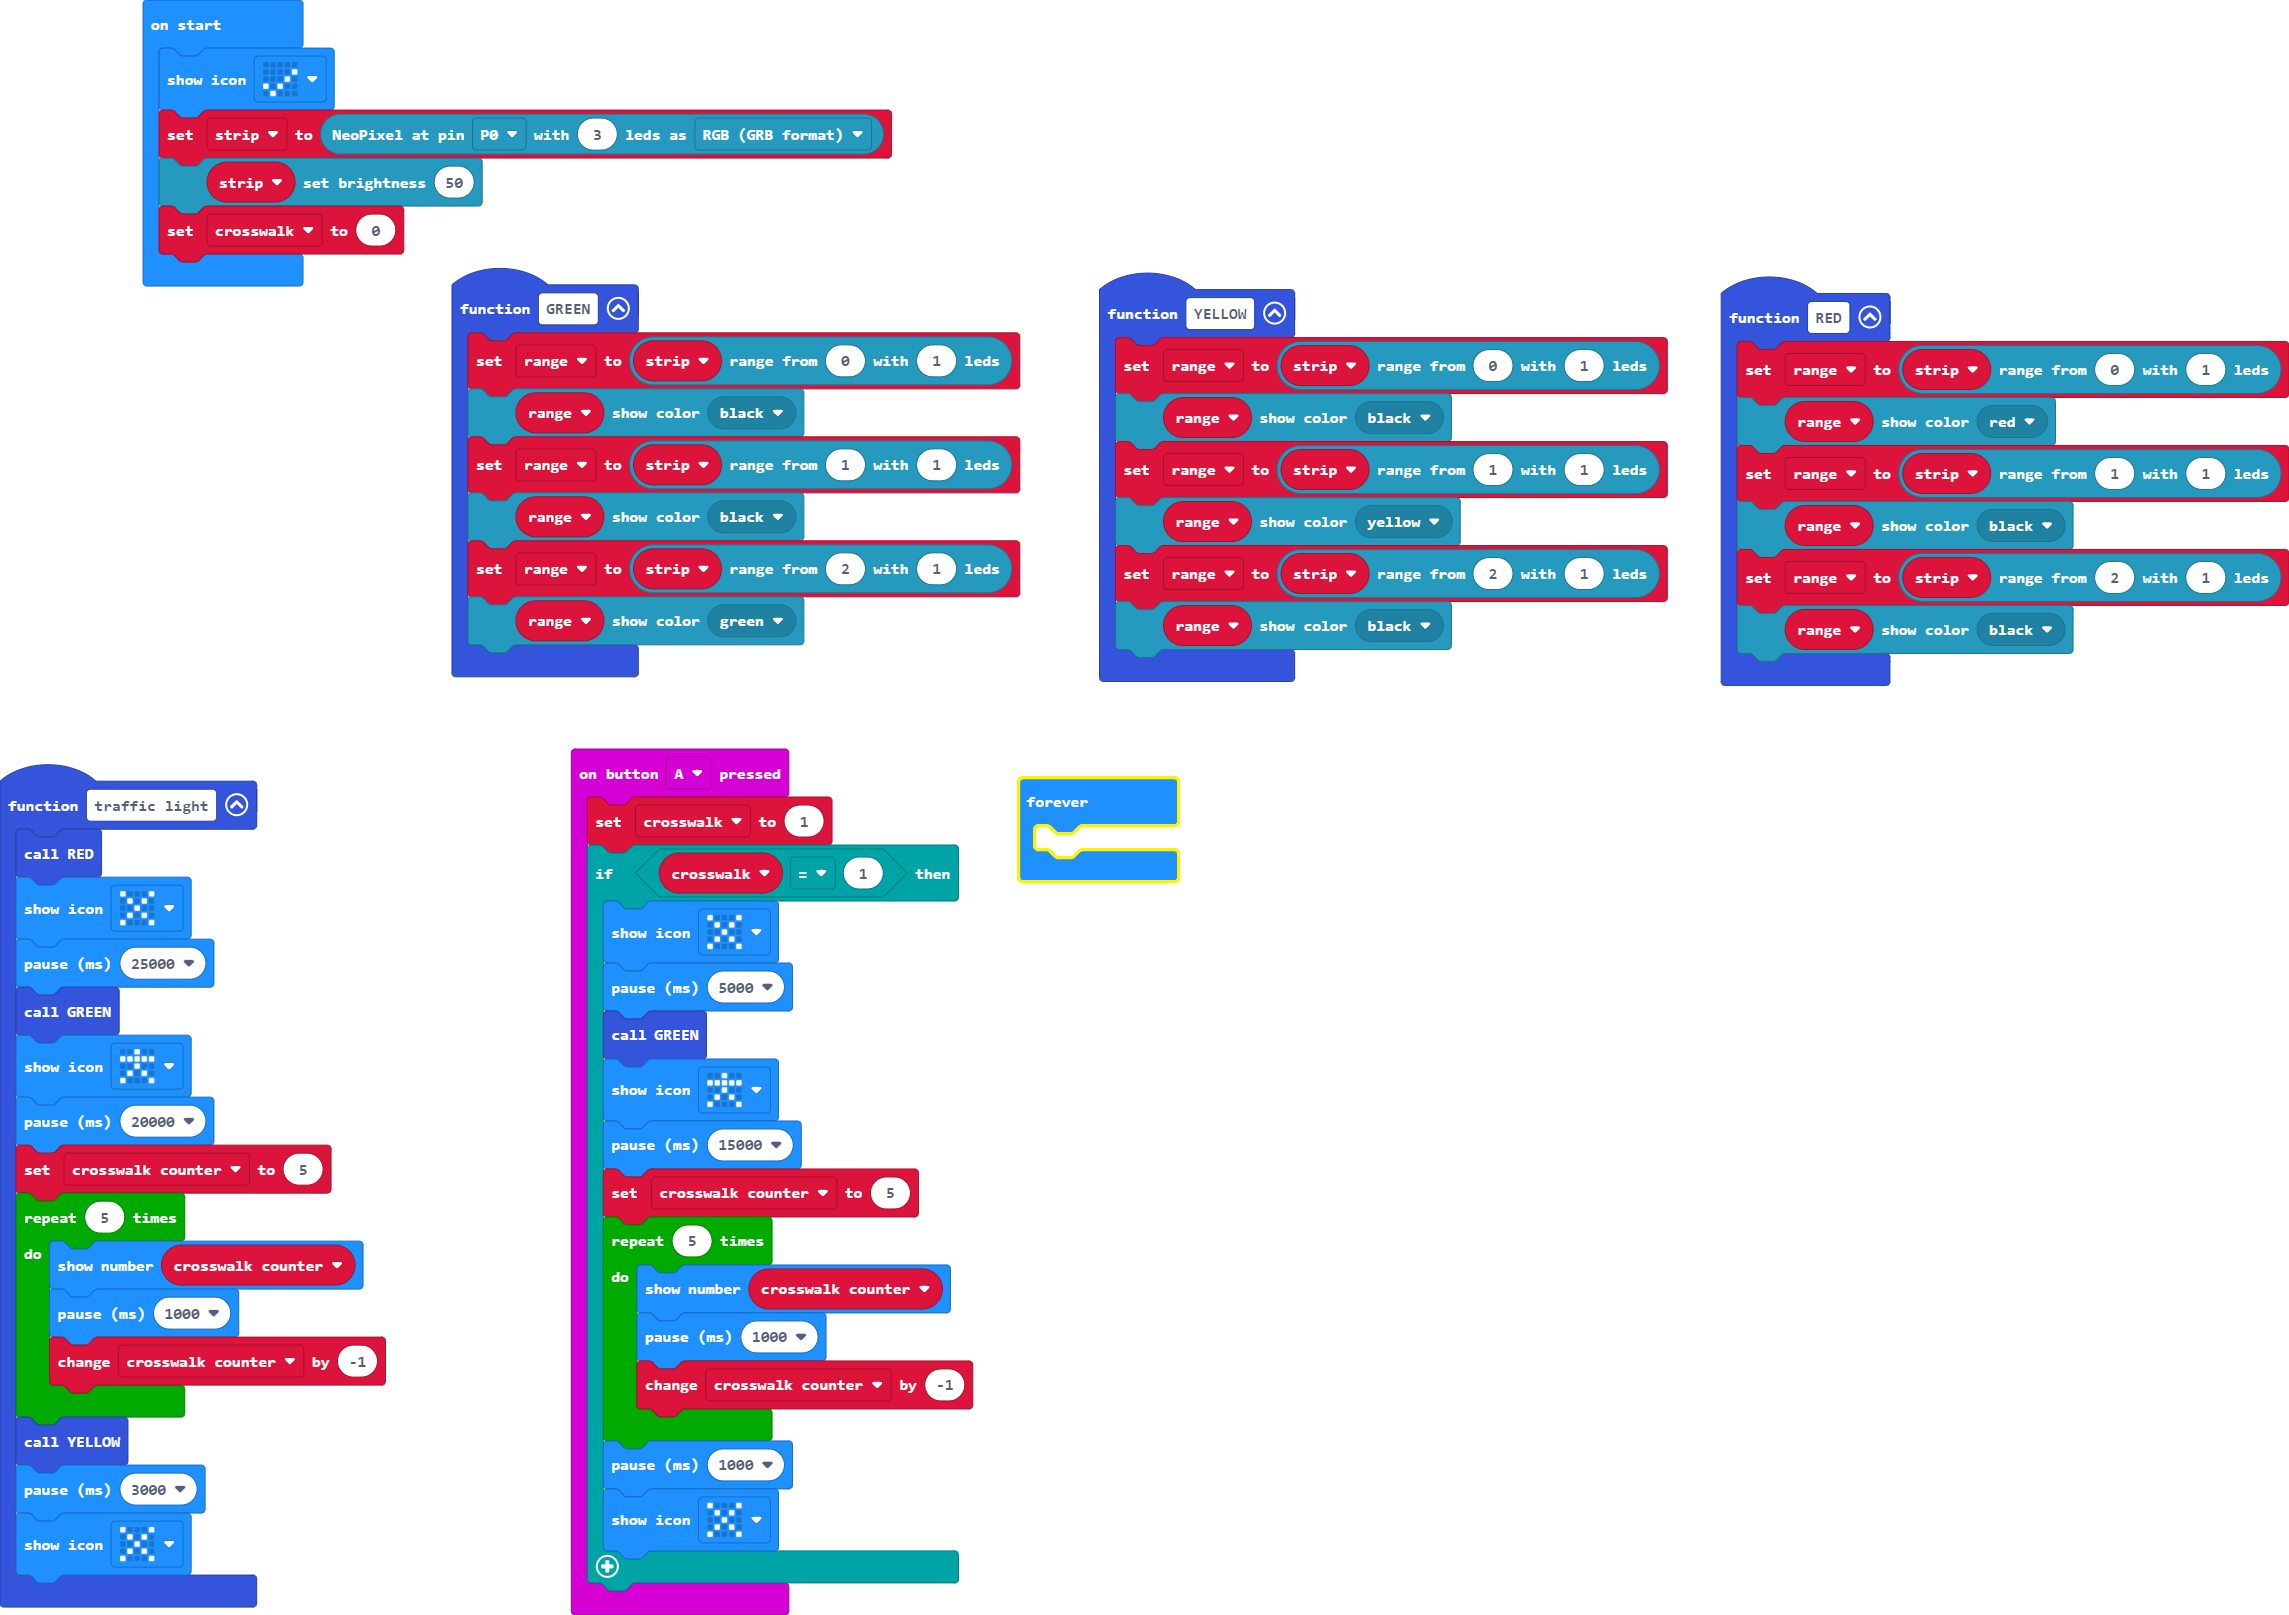
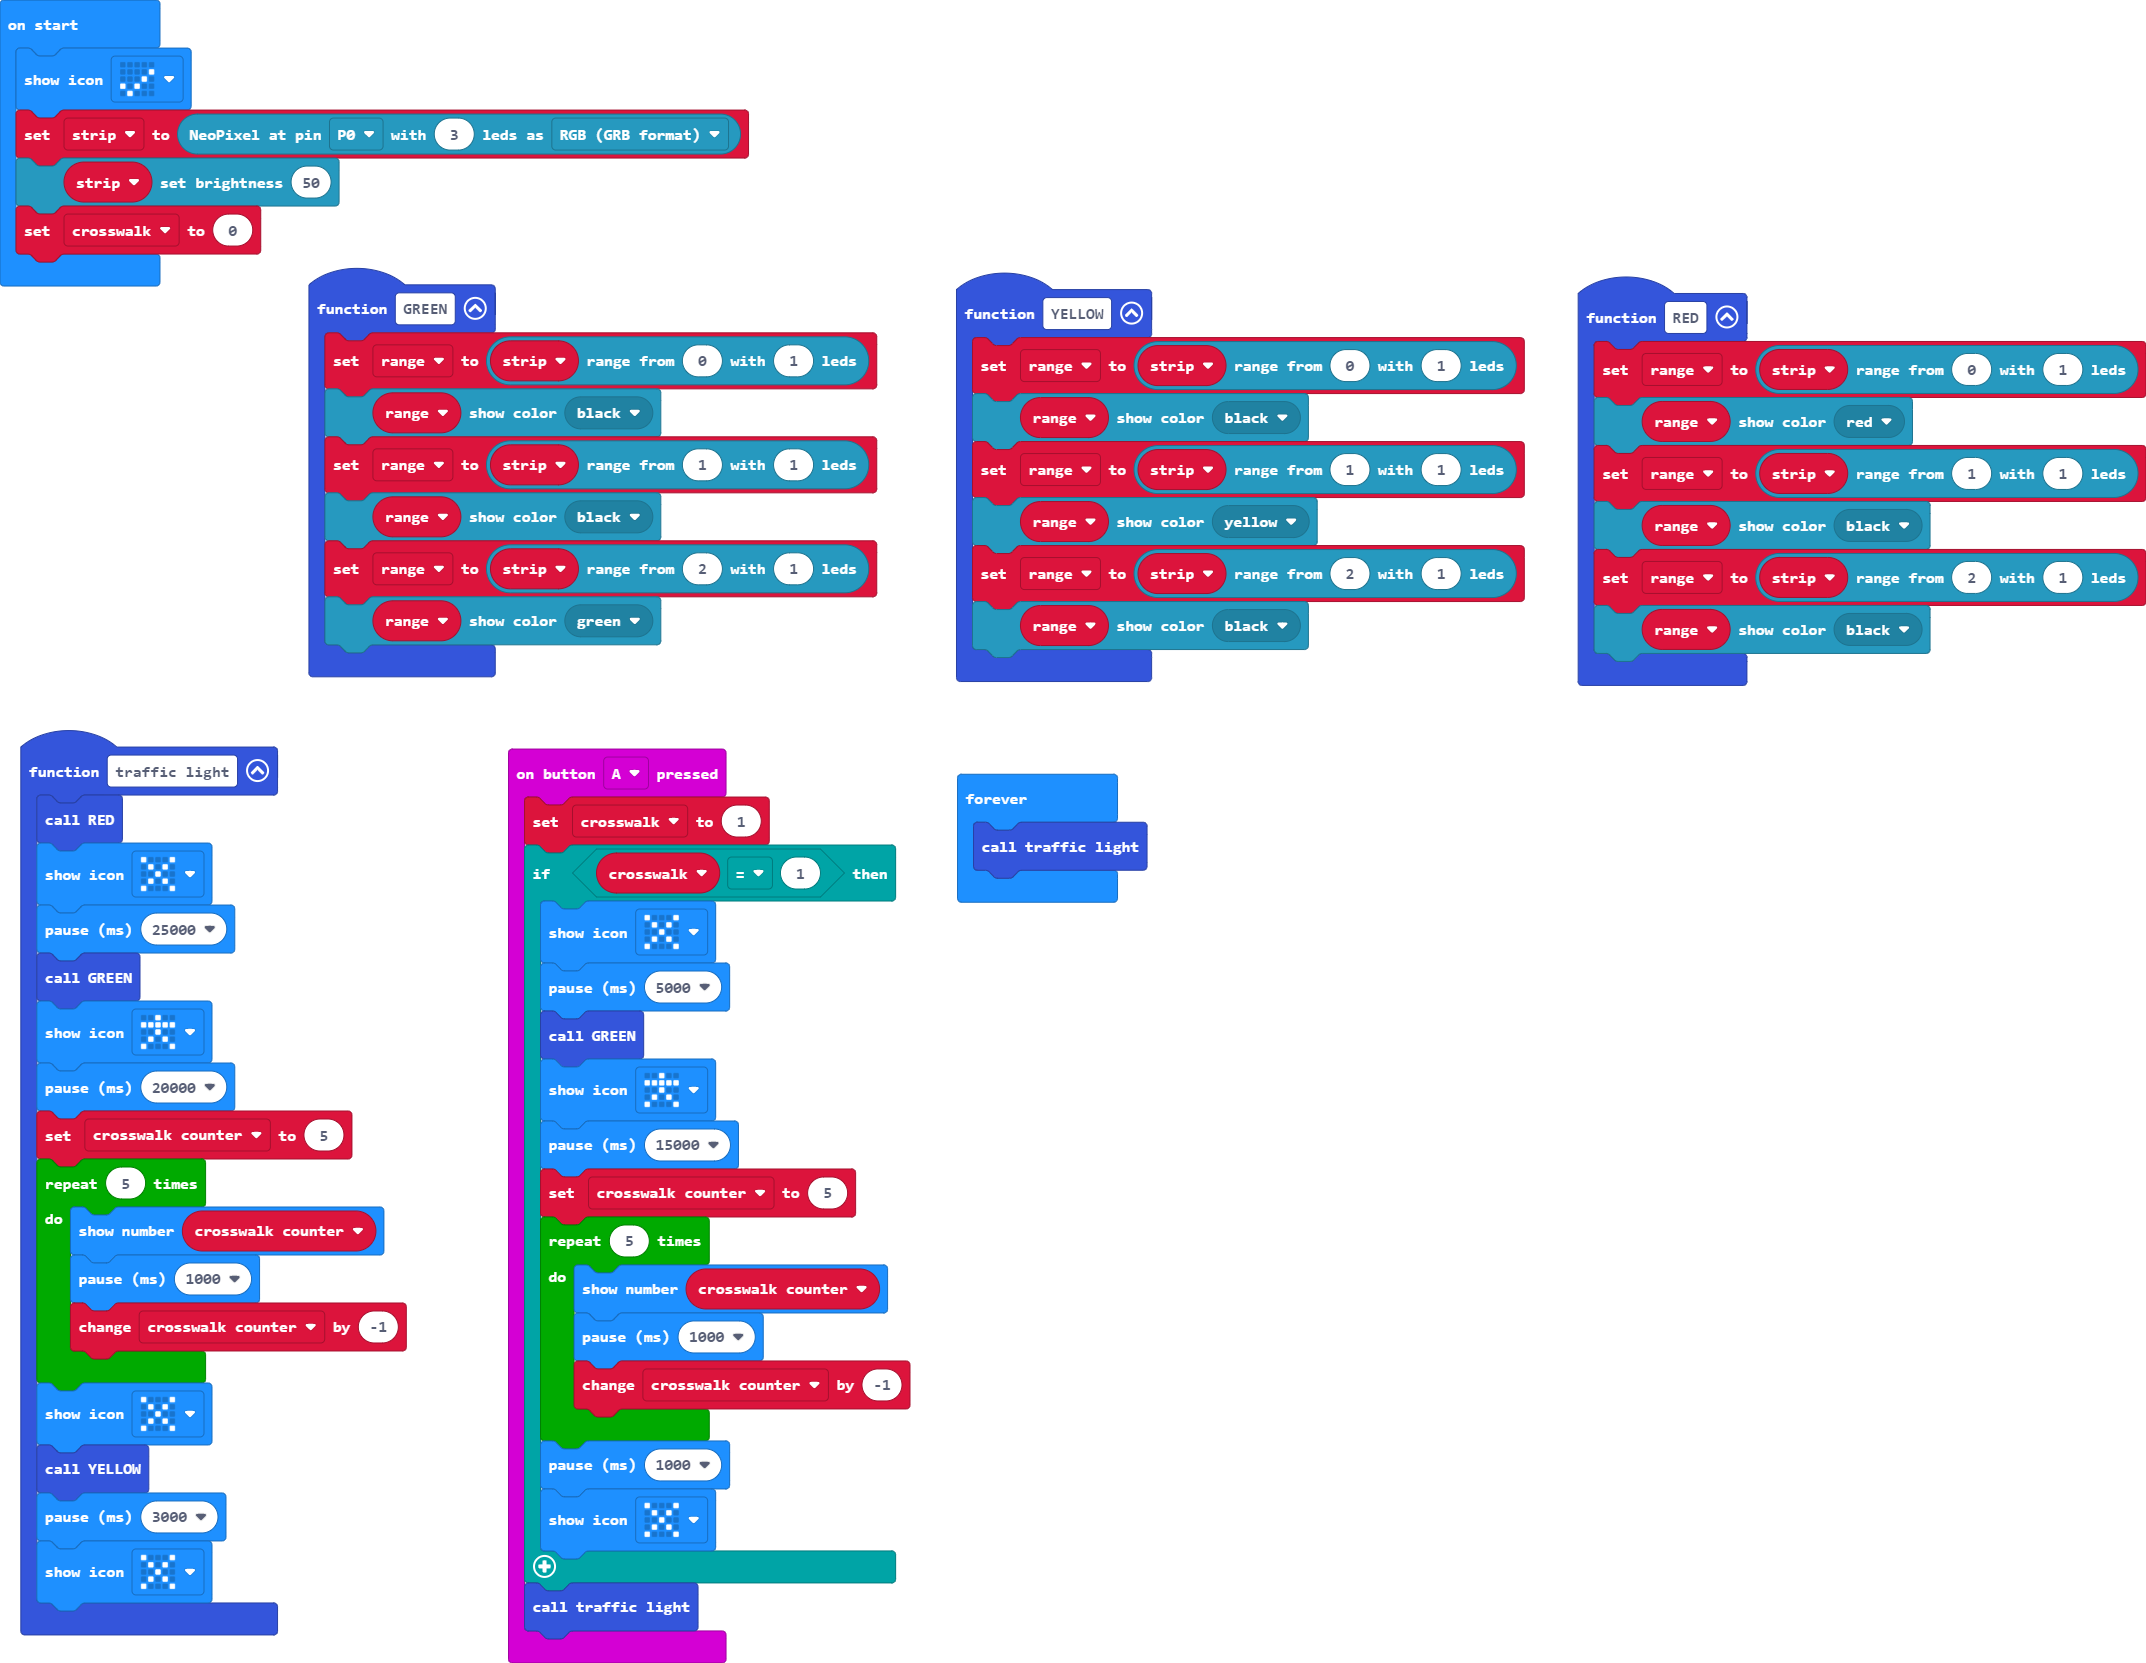
Update main.blocks, main.ts

Changed region(s): [[0.0, 0.0, 1.0, 1.0], [0.0, 0.4334, 0.1873, 1.0]]

diff --git a/main.ts b/main.ts
@@ -15,6 +15,7 @@ input.onButtonPressed(Button.A, function () {
         basic.pause(1000)
         basic.showIcon(IconNames.No)
     }
+    traffic_light()
 })
 function traffic_light () {
     RED()
@@ -29,6 +30,7 @@ function traffic_light () {
         basic.pause(1000)
         crosswalk_counter += -1
     }
+    basic.showIcon(IconNames.No)
     YELLOW()
     basic.pause(3000)
     basic.showIcon(IconNames.No)
@@ -66,5 +68,5 @@ strip = neopixel.create(DigitalPin.P0, 3, NeoPixelMode.RGB)
 strip.setBrightness(50)
 crosswalk = 0
 basic.forever(function () {
-	
+    traffic_light()
 })
